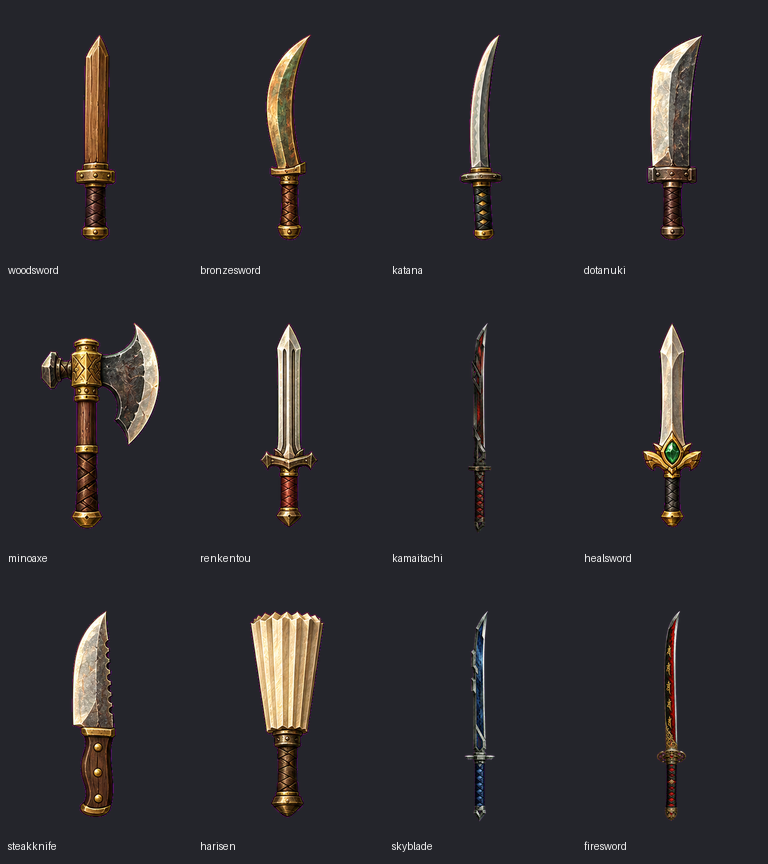
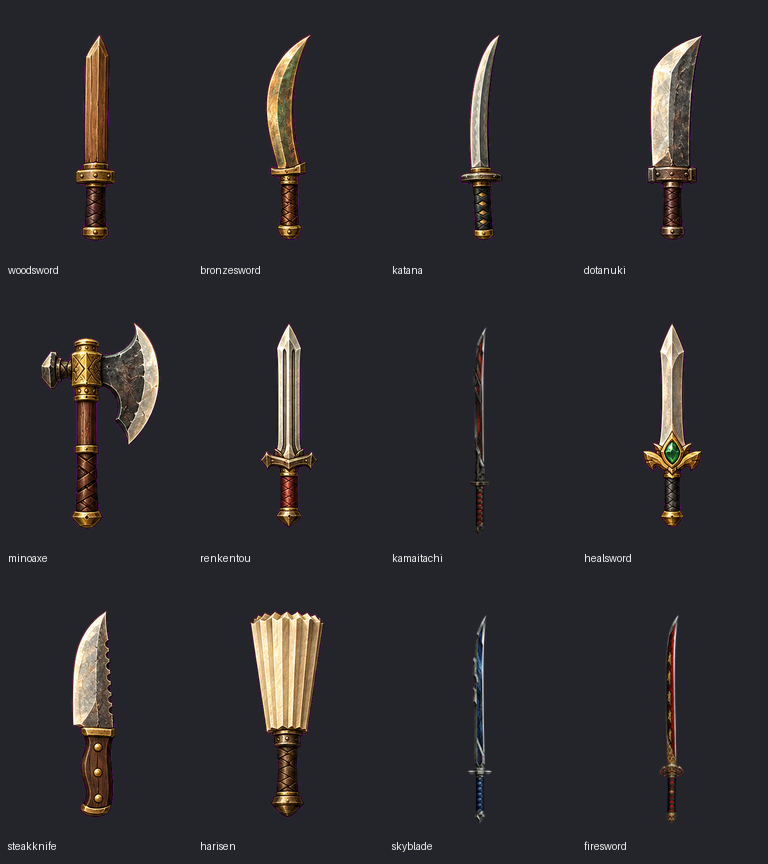
Lengthen adopted blades by 35 percent while preserving grips

Changed region(s): [[0.8438, 0.7188, 0.9062, 0.9375], [0.5938, 0.7188, 0.6562, 0.9375], [0.5938, 0.375, 0.6562, 0.5938]]

diff --git a/fushigi-weapons-v2/build.py b/fushigi-weapons-v2/build.py
@@ -39,17 +39,26 @@ def build():
   bg=Image.new('RGB',(512,512),'#ff00ff');bg.paste(item,mask=item.getchannel('A'));bg.save(R/'items'/f'{key}.png')
   # Same approved v3 tip-to-grip distance and pivot as the old catalog.
   k=175/384;registered=Image.new('RGBA',(192,256));registered.alpha_composite(item.resize((round(512*k),round(512*k)),Image.Resampling.LANCZOS),(round(96-256*k),round(210-410*k)))
+  blade_end=178;grip_y=210
+  if key in ('kamaitachi','skyblade','firesword'):
+   # Extend only the blade by 35%; keep hilt width, length and hand socket intact.
+   padding=64;blade_scale=1.35
+   longer=Image.new('RGBA',(192,320));length=round(blade_end*blade_scale)
+   longer.alpha_composite(registered.crop((0,0,192,blade_end)).resize((192,length),Image.Resampling.LANCZOS),(0,padding+blade_end-length))
+   longer.alpha_composite(registered.crop((0,blade_end,192,256)),(0,padding+blade_end))
+   registered=longer;blade_end+=padding;grip_y+=padding
   registered.save(R/'assets'/f'{key}.png')
-  e=dict(key=key,name=NAMES[i],path=f'assets/{key}.png',grip=[96,210],size=[192,256],renderScale=.66,source=src,sourceCell=box,sourceGrip=grip,sourceSha256=sha(R/src),spriteSha256=sha(R/'assets'/f'{key}.png'),view='front')
+  e=dict(key=key,name=NAMES[i],path=f'assets/{key}.png',grip=[96,grip_y],size=list(registered.size),renderScale=.66,source=src,sourceCell=box,sourceGrip=grip,sourceSha256=sha(R/src),spriteSha256=sha(R/'assets'/f'{key}.png'),view='front')
   if key in ('kamaitachi','skyblade','firesword'):
    # Illuminate blade only. Keep the ornate guard, hand and leather unlit.
-   mask=registered.copy();a=np.array(mask);a[178:]=0;mask=Image.fromarray(a);mask.save(R/'emission'/f'{key}.png')
+   e['bladeLengthScale']=1.35
+   mask=registered.copy();a=np.array(mask);a[blade_end:]=0;mask=Image.fromarray(a);mask.save(R/'emission'/f'{key}.png')
    e['glow']={'path':f'emission/{key}.png','color':{'kamaitachi':'#f32645','skyblade':'#2f9dff','firesword':'#b31527'}[key],'darkCore':key=='firesword'}
   entries.append(e)
  (R/'weapons.json').write_text(json.dumps(dict(version=2,status='Production redesign; adopted individual designs and heavier catalog',approvedBaseline='../fushigi-equipment-v3/',weapons=entries),ensure_ascii=False,indent=2)+'\n')
  contact=Image.new('RGB',(768,864),'#24252b');d=ImageDraw.Draw(contact)
  for i,e in enumerate(entries):
-  x=i%4*192;y=i//4*288;im=Image.open(R/e['path']);contact.paste(im,(x,y),im);d.text((x+8,y+264),e['key'],fill='#eeeeee')
+  x=i%4*192;y=i//4*288;im=Image.open(R/e['path']);im.thumbnail((192,256));contact.paste(im,(x+(192-im.width)//2,y),im);d.text((x+8,y+264),e['key'],fill='#eeeeee')
  contact.save(R/'catalog.png')
  print(json.dumps({e['key']:Image.open(R/e['path']).getbbox() for e in entries}))
 if __name__=='__main__':build()

diff --git a/fushigi-weapons-v2/check-browser.py b/fushigi-weapons-v2/check-browser.py
@@ -1,10 +1,10 @@
 """Browser integration: real main, all weapon poses, small screens and glow."""
 from pathlib import Path
-import json,base64,io
+import json,base64,io,os
 from PIL import Image
 from playwright.sync_api import sync_playwright
 R=Path(__file__).parent
-URL='http://127.0.0.1:8000/'
+URL=os.environ.get('FUSHIGI_REVIEW_URL','http://127.0.0.1:8000/')
 def check():
  with sync_playwright() as p:
   browser=p.chromium.launch(executable_path='/usr/bin/chromium',headless=True,args=['--no-sandbox'])
@@ -14,14 +14,15 @@ def check():
   result=page.evaluate('''() => {
    const c=document.createElement('canvas');c.width=256;c.height=288;const g=c.getContext('2d');let count=0;
    const ms=[17,70,120,170,230,280];
-   for(const w of ApprovedHero.weaponCatalog)for(const d of ApprovedHero.base.directions)for(const t of ms){
-    g.clearRect(0,0,256,288);weaponReview.drawHero(g,w.key,d.id,128,224,96,'attack',t,500,true);
+   function checkPose(key,id,action,t){
+    g.clearRect(0,0,256,288);weaponReview.drawHero(g,key,id,128,224,96,action,t,500,true);
     const a=g.getImageData(0,0,256,288).data;let pixels=0;for(let i=3;i<a.length;i+=4)if(a[i]>30)pixels++;
-    if(pixels<500)throw Error(w.key+': empty '+d.id+' '+t);
+    if(pixels<500)throw Error(key+': empty '+id+' '+action+' '+t);
     for(let x=0;x<256;x++)if(a[x*4+3]>3||a[(287*256+x)*4+3]>3)throw Error('vertical clipping');
-    for(let y=0;y<288;y++)if(a[y*256*4+3]>3||a[(y*256+255)*4+3]>3)throw Error('horizontal clipping');count++;
+    for(let y=0;y<288;y++)if(a[y*256*4+3]>3||a[(y*256+255)*4+3]>3)throw Error('horizontal clipping');
    }
-   let walk=0;for(const key of ['kamaitachi','skyblade','firesword'])for(const d of ApprovedHero.base.directions)for(const t of [40,140,240,340]){g.clearRect(0,0,256,288);weaponReview.drawHero(g,key,d.id,128,224,96,'walk',t,825,true);walk++;}
+   for(const w of ApprovedHero.weaponCatalog)for(const d of ApprovedHero.base.directions)for(const t of ms){checkPose(w.key,d.id,'attack',t);count++;}
+   let walk=0;for(const key of ['kamaitachi','skyblade','firesword'])for(const d of ApprovedHero.base.directions)for(const t of [40,140,240,340]){checkPose(key,d.id,'walk',t);walk++;}
    return {attackDraws:count,walkDraws:walk,glows:Object.keys(ApprovedHero.glows)};
   }''')
   contact=page.evaluate('''() => {

diff --git a/fushigi-weapons-v2/README.md b/fushigi-weapons-v2/README.md
@@ -9,7 +9,7 @@
 
 ## 本番仕様
 
-`items/` は512×512・単色マゼンタ背景の単体PNG。`assets/` は既存装備用の192×256 RGBA。握り(96,210)、先端から握り175px、描画倍率0.66。縦横比を維持。承認済み `fushigi-equipment-v3/` の原画・レンダラー・握りソケット・盾の倍率0.59・NW/SEの重なりは変更しない。
+`items/` は512×512・単色マゼンタ背景の単体PNG。`assets/` は通常武器192×256 RGBA・握り(96,210)。採用3刀はユーザーの追加指定により刀身だけを35%延長し、192×320 RGBA・握り(96,274)へ登録。柄・鍔の大きさと握りからの位置、描画倍率0.66は維持。上部余白を増やして発光を収める。512pxの単体原画は採用時の形を保持し、装備用の刀身の延長は再現スクリプトで行う。承認済み `fushigi-equipment-v3/` の原画・レンダラー・握りソケット・盾の倍率0.59・NW/SEの重なりは変更しない。
 
 `assets/approved-hero.js` が新カタログを読み込む。アイテムキーと所持品のデータは維持。`weapon-glow.js` は3種の刀身マスクだけを着色し、赤／青／暗い外縁と赤の脈動をコードで作る。装備用のキャンバスを既存レンダラーへ渡すため、回転・短縮・手による遮蔽・前後順が待機、攻撃、歩行にそのまま適用される。柄と手は発光しない。炎の静止画や浮遊エフェクトは原画へ追加していない。
 
@@ -35,3 +35,7 @@
 - `NW-SE-attack.png` は3本のNW/SE全6コマを目視確認した比較。`weapon-glow.gif` は同じ描画コードから作成した3本の動作比較。
 - `asset-validation.json` は12種の寸法・先端・不透明な握り・余白・ハッシュ・刀身マスク。`browser-validation.json` はブラウザ検証結果。
 - 採用原画からの再構築で、12装備PNG・12単体PNG・3発光マスク・メタデータのSHA-256が再構築前と一致。
+
+## 刀身の延長（2026-10-25追加）
+
+ユーザーの「刀身もっと長い方がいいね」に対応し、かまいたち・空の刃・火迅風魔刀の刀身を35%延長。柄と鍔は拡大せず、ソケットと世界座標上の握りは維持。描画倍率で全体を大きくする方式は使わない。
